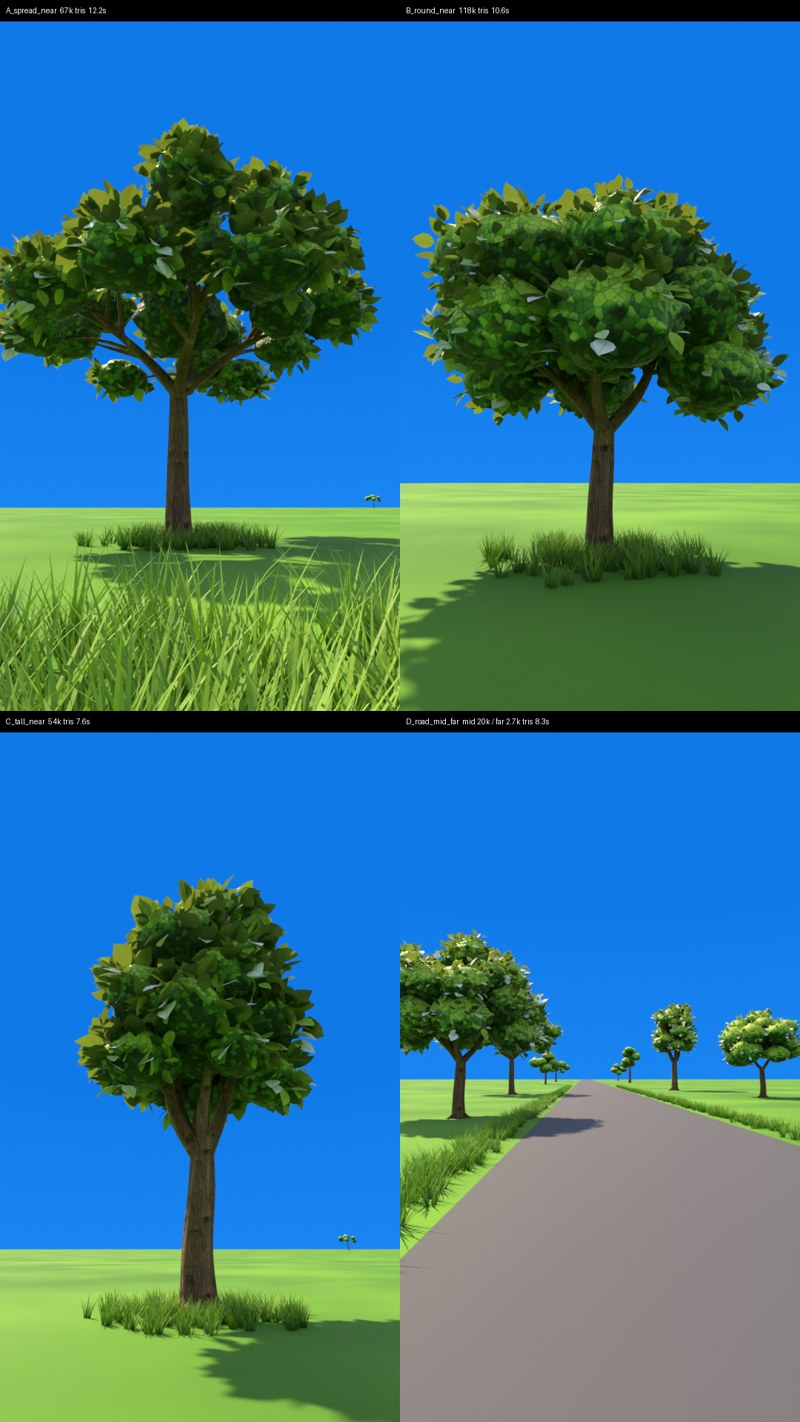
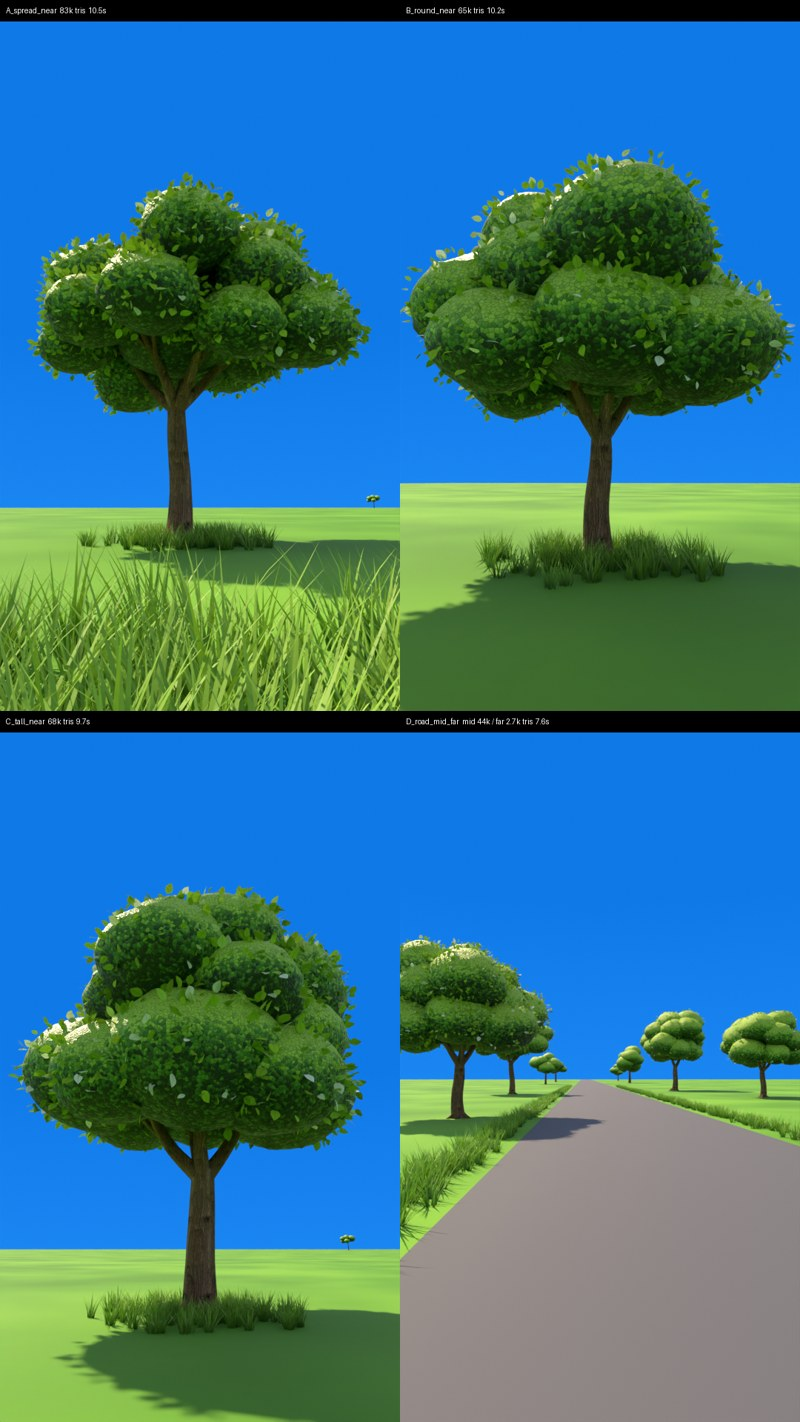
Library: Rick tree round 2 (smooth puffy clumps, smaller denser leaves)
Claude-Session: https://claude.ai/code/session_01DrjR3Ltb34YxYG9MboPX6s

diff --git a/library/trees/rick_tree.py b/library/trees/rick_tree.py
@@ -26,17 +26,17 @@ HERE = os.path.dirname(os.path.abspath(__file__))
 TEX = os.path.join(HERE, "tex")
 
 COLOURS = {
-    "lit": "#a5cf3a",       # sunlit tops of clumps (yellow-green)
+    "lit": "#9cc634",       # sunlit tops of clumps (yellow-green)
     "mid": "#4c8622",       # body of the crown
     "dark": "#163212",      # undersides and inside
-    "card_lit": "#b2d24a",  # big leaf cards, light end
+    "card_lit": "#a4ce36",  # albedo; under the day sun it reads ~#b4dc3c, glowing  # big leaf cards, light end
     "card_dark": "#4d7d22", # big leaf cards, dark end
     "bark": "#5a4a3c",      # bark tint (multiplied with the bark photo)
 }
 
 LOD = {  # clump icosphere level (bmesh: 3 = 320, 4 = 1280, 5 = 5120 faces), cards per clump, branch detail, secondary branches
-    "near": dict(ico=None, cards=70, res_u=8, bev=4, sec=True, roots=5, tri_budget=105000),
-    "mid": dict(ico=3, cards=22, res_u=4, bev=2, sec=True, roots=3, tri_budget=30000),
+    "near": dict(ico=None, cards=200, res_u=8, bev=4, sec=True, roots=5, tri_budget=70000),
+    "mid": dict(ico=4, cards=50, res_u=4, bev=2, sec=True, roots=3, tri_budget=30000),
     "far": dict(ico=3, cards=0, res_u=2, bev=1, sec=False, roots=0, tri_budget=3200),
 }
 
@@ -147,7 +147,7 @@ def _shade_factor(N, L, rnd_amount):
     return add
 
 
-def crown_material(cols, leaf_size=.14):
+def crown_material(cols, leaf_size=.075):
     """clump surface: a mosaic of leaf cells (voronoi), each cell its own green, dark gaps between them, leaf bump;
     dark -> mid -> lit by normal and depth in the crown"""
     name = "rt_crown_%s_%s_%.2f" % (cols["lit"].lstrip("#"), cols["dark"].lstrip("#"), leaf_size)
@@ -223,14 +223,22 @@ def card_material(cols):
         return m
     m = bpy.data.materials.new(name)
     N, L, b = _nodes(m)
-    f = _shade_factor(N, L, .55)
+    sh = N.new("ShaderNodeAttribute")
+    sh.attribute_name = "shade"
+    rn = N.new("ShaderNodeAttribute")
+    rn.attribute_name = "rnd"
+    f = N.new("ShaderNodeMix")
+    f.data_type = "FLOAT"
+    f.inputs["Factor"].default_value = .4
+    L.new(sh.outputs["Fac"], f.inputs["A"])
+    L.new(rn.outputs["Fac"], f.inputs["B"])
     ramp = N.new("ShaderNodeValToRGB")
     cr = ramp.color_ramp
     cr.elements[0].position, cr.elements[0].color = .1, lin(cols["dark"])
     e = cr.elements.new(.45)
     e.color = lin(cols["card_dark"])
-    cr.elements[1].position, cr.elements[1].color = .78, lin(cols["card_lit"])
-    L.new(f.outputs[0], ramp.inputs[0])
+    cr.elements[1].position, cr.elements[1].color = .9, lin(cols["card_lit"])
+    L.new(f.outputs["Result"], ramp.inputs[0])
     uv = N.new("ShaderNodeUVMap")
     sp = N.new("ShaderNodeSeparateXYZ")
     L.new(uv.outputs["UV"], sp.inputs[0])
@@ -253,10 +261,16 @@ def card_material(cols):
     L.new(ramp.outputs[0], mx.inputs["A"])
     L.new(rr.outputs[0], mx.inputs["B"])
     L.new(mx.outputs["Result"], b.inputs["Base Color"])
-    b.inputs["Roughness"].default_value = .8
-    b.inputs["Specular IOR Level"].default_value = .1
+    b.inputs["Roughness"].default_value = .85
+    b.inputs["Specular IOR Level"].default_value = .0
     tl = N.new("ShaderNodeBsdfTranslucent")
-    tl.inputs["Color"].default_value = lin(cols["card_lit"])
+    dk = N.new("ShaderNodeMix")
+    dk.data_type = "RGBA"
+    dk.blend_type = "MULTIPLY"
+    dk.inputs["Factor"].default_value = 1.0
+    dk.inputs["B"].default_value = (.5, .5, .5, 1)
+    L.new(mx.outputs["Result"], dk.inputs["A"])
+    L.new(dk.outputs["Result"], tl.inputs["Color"])
     ms = N.new("ShaderNodeMixShader")
     ms.inputs[0].default_value = .22
     L.new(b.outputs[0], ms.inputs[1])
@@ -296,7 +310,7 @@ def _clump_centres(rnd, n, c, ax):
         tries += 1
         a = rnd.uniform(0, 2 * math.pi)
         e = math.asin(rnd.uniform(-.55, 1.0))
-        r = rnd.uniform(.55, .88)
+        r = rnd.uniform(.45, .8)
         q = Vector((math.cos(a) * math.cos(e) * r, math.sin(a) * math.cos(e) * r, math.sin(e) * r))
         mind = 1.25 / max(n, 1) ** (1 / 3)
         if all((q - o).length > mind for o in pts):
@@ -309,9 +323,9 @@ def _clumps(name, rnd, centres, c, ax, ico, parent, mat, seed):
     bm = bmesh.new()
     sh_layer = bm.verts.layers.float.new("shade")
     rnd_layer = bm.faces.layers.float.new("rnd")
-    base_r = min(ax.x, ax.z) * 1.02 / max(len(centres), 1) ** (1 / 3)
+    base_r = min(ax.x, ax.z) * 1.22 / max(len(centres), 1) ** (1 / 3)
     off = Vector((seed * 7.31, seed * 3.17, seed * 1.93))
-    blobs = [(c - Vector((0, 0, ax.z * .1)), min(ax.x, ax.z) * .5, True)] + [(p, base_r * rnd.uniform(.85, 1.25), False) for p in centres]
+    blobs = [(c - Vector((0, 0, ax.z * .1)), min(ax.x, ax.z) * .68, True)] + [(p, base_r * rnd.uniform(.85, 1.25), False) for p in centres]
     for p, rr, core in blobs:
         tmp = bmesh.new()
         bmesh.ops.create_icosphere(tmp, subdivisions=ico, radius=rr)
@@ -319,9 +333,9 @@ def _clumps(name, rnd, centres, c, ax, ico, parent, mat, seed):
         for v in tmp.verts:
             d = v.co.normalized()
             w = p + v.co
-            lump = noise.noise(w * (1.1 / rr) + off) * .22
+            lump = noise.noise(w * (.8 / rr) + off) * .16
             cell = noise.voronoi(w * (2.4 / rr) + off)[0][0]
-            knob = (.35 - min(cell, .35)) * .55
+            knob = ((.45 - min(cell, .45)) / .45) ** 2 * .1  # soft round puffs, no ridges
             k = 1 + lump + knob
             if d.z < 0:
                 k *= 1 + d.z * .18  # flatter underside
@@ -353,10 +367,10 @@ def _cards(name, rnd, crown, c, ax, count, size, parent, mat):
     keep = []
     for cen, nrm, area in polys:
         q = _ell(cen, c, ax)
-        if q.length < .78:
+        if q.length < .6:
             continue
         out = Vector((q.x / ax.x, q.y / ax.y, q.z / ax.z)).normalized()
-        if nrm.dot(out) < .15 or nrm.z < -.75:
+        if nrm.dot(out) < -.1 or nrm.z < -.85:
             continue
         keep.append((cen, nrm, area))
     if not keep:
@@ -491,19 +505,19 @@ def _branches(name, rnd, height, fork_h, r0, centres, c, ax, cfg, parent, mat):
 
 # ---------------------------------------------------------------- public
 def make_tree(name, height=8.0, crown_width=8.0, n_clumps=24, seed=0, lod="near", colours=None,
-              crown_height=None, trunk_radius=None, leaf_card_size=None, leaf_cell=.14):
+              crown_height=None, trunk_radius=None, leaf_card_size=None, leaf_cell=.075):
     """Build a tree at the origin (trunk foot at z=0), return its root Empty.
     height: total metres; crown_width: crown diameter; n_clumps: 10-40 (far keeps at most 7);
     lod: near (full) | mid (simpler clumps, 1/3 of the cards) | far (few blobs, trunk only, no cards);
     colours: dict overriding COLOURS (lit, mid, dark, card_lit, card_dark, bark);
-    crown_height: default 0.62*height; trunk_radius: default 0.034*height; leaf_card_size: default 0.045*height (big);
+    crown_height: default 0.62*height; trunk_radius: default 0.034*height; leaf_card_size: default 0.022*height;
     leaf_cell: size of a leaf cell in the clump surface pattern (m)."""
     cols = dict(COLOURS, **(colours or {}))
     cfg = LOD[lod]
     rnd = random.Random(seed)
     ch = crown_height or height * .62
     r0 = trunk_radius or height * .034
-    card = leaf_card_size or height * .045
+    card = leaf_card_size or height * .022
     c, ax = _crown_frame(height, crown_width, ch)
     n = max(4, min(int(n_clumps), 7)) if lod == "far" else max(6, int(n_clumps))
     centres = _clump_centres(rnd, n, c, ax)

diff --git a/library/trees/make_tree_sheet.py b/library/trees/make_tree_sheet.py
@@ -74,9 +74,9 @@ me.materials.append(road_m)
 sc.collection.objects.link(bpy.data.objects.new("road", me))
 
 SHAPES = {  # name: (height, crown_width, n_clumps, seed, crown_height ratio)
-    "spread": (8.0, 10.0, 28, 3, .58),
-    "round": (7.0, 6.5, 18, 11, .7),
-    "tall": (11.0, 5.0, 22, 21, .72),
+    "spread": (8.0, 7.8, 28, 3, .64),
+    "round": (7.0, 6.2, 18, 11, .72),
+    "tall": (10.0, 7.4, 22, 21, .74),
 }
 stats = {}
 

diff --git a/library/LIBRARY.md b/library/LIBRARY.md
@@ -12,7 +12,7 @@ Columns: name | what it is | made for (film) | build script / file | source and 
 
 | name | what it is | made for | build script / file | source + licence | scale | how to adapt | known faults | preview |
 |---|---|---|---|---|---|---|---|---|
-| rick_tree | Rick-way tree (CB_RULES 3, 1b): bark trunk with lean + root flare, 3-5 main limbs, one limb per clump + twigs; crown of 10-40 lumpy leaf CLUMPS (icosphere + noise + cell knobs) with a leaf-cell mosaic surface (voronoi cells, dark gaps, bump), lit tops yellow-green, dark undersides/inside; big pointed leaf cards on the outer clump edges, pointing outward. All real mesh (no particles/modifiers): exports to GLB as is; baked attributes `shade` (point) + `rnd` (face) so kit/EEVEE can rebuild the colours | library (first use: any film after 2026-11-21) | library/trees/rick_tree.py `make_tree(name, height, crown_width, n_clumps, seed, lod, colours, crown_height, trunk_radius, leaf_card_size, leaf_cell)` -> root Empty (children `_trunk`, `_crown`, `_leaves`); `tri_count(root)`; proof library/trees/tree_sheet.sh | bark: Poly Haven bark_brown_02 1k, **CC0** (library/trees/fetch_tex.sh; procedural fallback if missing); rest our code | metres, trunk foot at z 0; defaults: crown_height .62 h, trunk radius .034 h, leaf card .045 h, leaf cell .14 m. Tris (measured): near 55-118k, mid 14-21k, far 2.7k | `lod` near/mid/far; `colours` dict keys lit, mid, dark, card_lit, card_dark, bark (defaults #a5cf3a, #4c8622, #163212, #b2d24a, #4d7d22, #5a4a3c); shape = height/crown_width/crown_height; `seed` for variety; place with `root.location`/`rotation_euler` | near crowns can reach ~125k tris (budget 150k): 5120-face blobs when n<=20, else 1280; a few edge-on leaf cards read pale blue-grey (sky on grazing cards); crown slightly darker/less yellow than Rick's lit tops; no wind; crown shadow is solid (no dapple holes) | library/trees/TREE_SHEET.jpg |
+| rick_tree | Rick-way tree (CB_RULES 3, 1b): bark trunk with lean + root flare, 3-5 main limbs, one limb per clump + twigs; crown of 10-40 lumpy leaf CLUMPS (icosphere + noise + cell knobs) with a leaf-cell mosaic surface (voronoi cells, dark gaps, bump), lit tops yellow-green, dark undersides/inside; smooth puffy overlapping clumps (few holes), fine leaf cells (.075 m); many small pointed leaf cards over the outer clump surface and edges, pointing outward. All real mesh (no particles/modifiers): exports to GLB as is; baked attributes `shade` (point) + `rnd` (face) so kit/EEVEE can rebuild the colours | library (first use: any film after 2026-11-21) | library/trees/rick_tree.py `make_tree(name, height, crown_width, n_clumps, seed, lod, colours, crown_height, trunk_radius, leaf_card_size, leaf_cell)` -> root Empty (children `_trunk`, `_crown`, `_leaves`); `tri_count(root)`; proof library/trees/tree_sheet.sh | bark: Poly Haven bark_brown_02 1k, **CC0** (library/trees/fetch_tex.sh; procedural fallback if missing); rest our code | metres, trunk foot at z 0; defaults: crown_height .62 h, trunk radius .034 h, leaf card .022 h, leaf cell .075 m; crown width ~1.1-1.3x crown height. Tris (measured): near 66-84k, mid 35-45k, far 2.7k | `lod` near/mid/far; `colours` dict keys lit, mid, dark, card_lit, card_dark, bark (defaults #9cc634, #4c8622, #163212, #a4ce36, #4d7d22, #5a4a3c; albedos, under the day sun cards read ~#b4dc3c); shape = height/crown_width/crown_height; `seed` for variety; place with `root.location`/`rotation_euler` | near crown 1280-face blobs (5120 when n<=12); clumps read a little too regular/round (topiary) vs Rick's; a few cards seen from below still read light grey (sun through the translucency); no wind; crown shadow is solid (no dapple holes) | library/trees/TREE_SHEET.jpg |
 | rick_grass | Rick-way grass (CB_RULES 3, 1b): `flat_lawn()` = one flat plane, bright yellow-green with soft big patches + fine mottling, varied roughness, no blades; `tufts()` = full tufts of tall curved blades (real mesh, root dark -> tip light, per-blade random, slight translucency, no sheen) only where asked; helpers `tufts_along(path)` (road/drive/fence edge; list of points or a curve object), `tufts_around(obj)` (ring at a trunk/post/prop foot), `tufts_lens_band(camera)` (band in front of the lens), `scatter_band()` | library | library/grass/rick_grass.py `flat_lawn(material, size, location, name, colours)`, `tufts(points, height, blades, spread, width, lod, colours, seed, name)`, `tufts_along(path, width, density, offset, height, lod...)`, `tufts_around(obj, r_in, r_out, density, height, lod...)`, `tufts_lens_band(cam, d0, d1, density, height, lod...)` | our code (blade colours from our car_science grass()) | metres, ground at z 0 (points may carry z); tuft ~.45 m tall, 14-26 blades, ~140 tris per near tuft (4 segments); mid 2 segments, half the blades; far = lawn only | `colours` keys lawn, lawn_var, lawn_hi, root, tip, var (defaults #5e9a28, #4e8820, #6faa2e, #2f5a14, #94c63a, #6a9e28); density per m2; height; lod | ground must be flat (no terrain snap); no mask-image input yet (pass points); dense lens bands get heavy (2.6 m x view width x 12/m2 ~ 100k tris); lawn colour tuned under rick_light day only | library/trees/TREE_SHEET.jpg |
 
 ## Buildings

diff --git a/library/trees/STATE.md b/library/trees/STATE.md
@@ -7,3 +7,5 @@ Tris: near spread 67k, round 118k, tall 55k; mid 14-21k; far 2.7k; scene 624k. B
 Weak: crown lit tops less yellow than Rick's; some edge-on cards pale blue-grey; solid crown shadow (no holes);
   no terrain snap for tufts; no mask-image input; lawn colour tuned under day light only.
 Open: card translucency/fresnel test; optional dapple holes; GLB export test into the three.js kit.
+Round 2 (lead notes): smooth puffy denser clumps, cards half size x~3 count over whole outer surface, cells .075 m, card translucency = leaf colour x.5, spec 0.
+  Tris near 66-84k, mid 35-45k, far 2.7k; 9-10.5 s per panel. Weak: clumps a bit topiary-regular; few light-grey cards from below.
